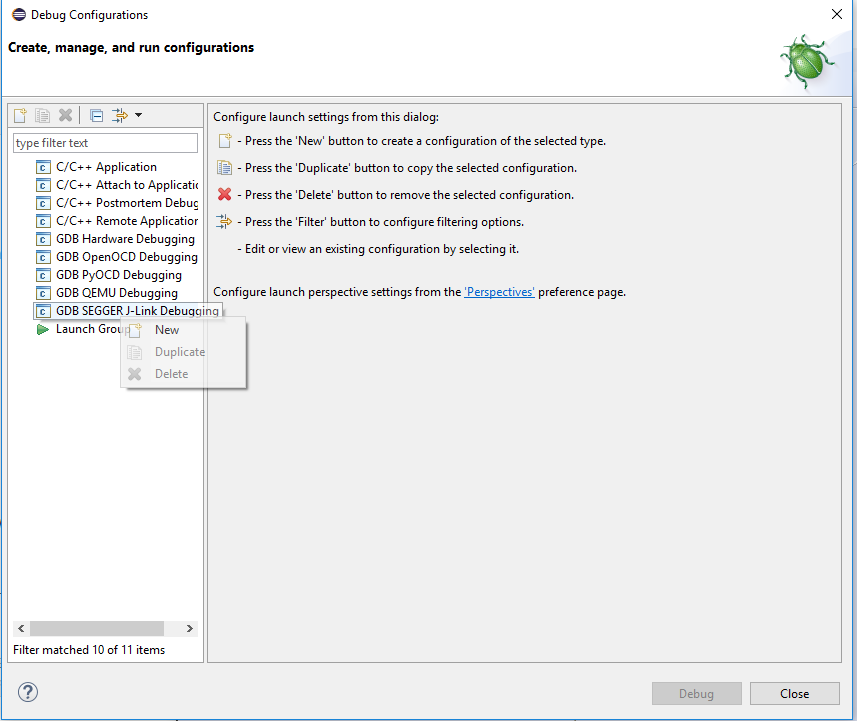
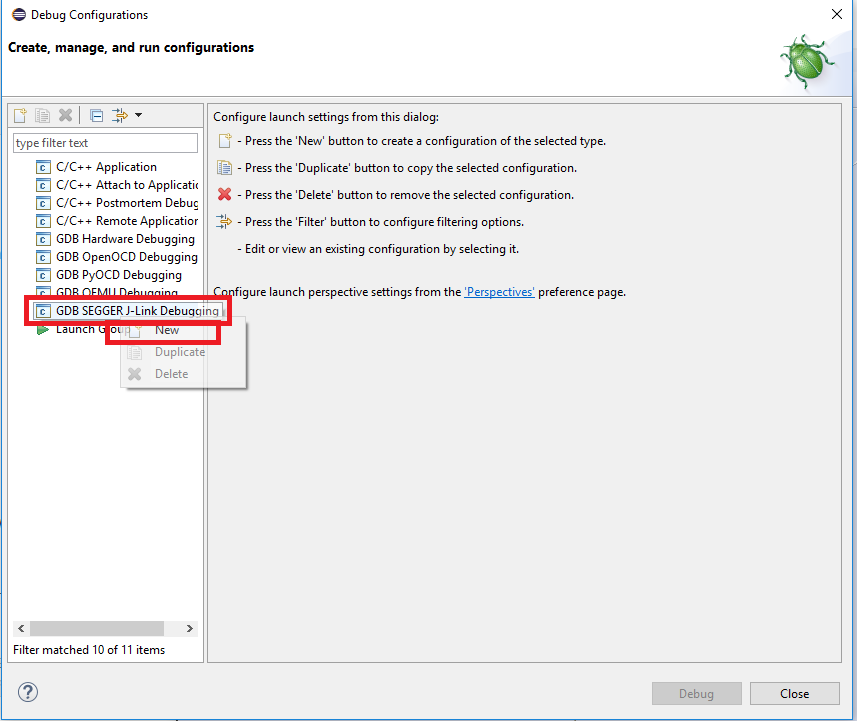
added all pictures

Changed region(s): [[0.0303, 0.3967, 0.273, 0.4882]]

diff --git a/0_set_up_eclipse.md b/0_set_up_eclipse.md
@@ -21,15 +21,17 @@ https://github.com/mcreng/SmartCarSWTutorial18/blob/master/1_basic_assignment.md
 - GNU ARM eclipse Plugins
 
   - [Help]->[Install New Software...]
+    ![2](C:\Users\dipsy\Desktop\ROBO\SmartCarSWTutorial18\img\eclipse\2.PNG)
   - Type http://gnuarmeclipse.sourceforge.net/updates in the textbox next to [Work with] label
     - Press Enter
     - Check the item [GNU ARM C/C++] in the CheckedListBox below
+      ![2.1](C:\Users\dipsy\Desktop\ROBO\SmartCarSWTutorial18\img\eclipse\2.1.PNG)
     - Press [Next]->[Next]->Accept license agreement & [finish]
 - EGit
   - [Help]->[Install New Software...]
   - Type http://download.eclipse.org/egit/updates in the textbox next to [Workwith] label
     - Press Enter
-    - Check the items [Eclipse Git Team Provider] & [JGit] in the CheckedListBox below
+    - Check the items [Git integration for Eclipse] & [Java implementation of Git] in the CheckedListBox below
     - Press [Next]->[Next]->Accept license agreement & [finish]
 
 ### 3. Library Setting
@@ -37,39 +39,48 @@ https://github.com/mcreng/SmartCarSWTutorial18/blob/master/1_basic_assignment.md
 #### 3.1 Download the Library by Git Pull
 
 - [Window]->[Open Perspective]->[Other...]->Select [Git]->[OK]
+  ![3.1.1](C:\Users\dipsy\Desktop\ROBO\SmartCarSWTutorial18\img\eclipse\3.1.1.PNG)
 - Copy https://github.com/hkust-smartcar/libsccc.git (Library)
   - Click [Git Repositories] tab
   - { Ctrl + V } / RightClick & [Paste Repository Path or URI]
   - [Next] -> [Next] -> [Finish]
+    ![3.1.4](C:\Users\dipsy\Desktop\ROBO\SmartCarSWTutorial18\img\eclipse\3.1.4.PNG)
 - Right Click [libsccc] -> [Pull]
 
 #### 3.2 Import the Library to Eclipse
 
 - Goto [C/C++ perspective] on the top-right corner
-- RightClick blank space on [Project Explorer] tab
+  ![3.2.1](C:\Users\dipsy\Desktop\ROBO\SmartCarSWTutorial18\img\eclipse\3.2.1.PNG)
+- RightClick blank space on [Project Explorer] tab![3.2.2](C:\Users\dipsy\Desktop\ROBO\SmartCarSWTutorial18\img\eclipse\3.2.2.PNG)
 - [C/C++ : Existing Code as Makefile Project] -> [Next]
+  ![3.2.3](C:\Users\dipsy\Desktop\ROBO\SmartCarSWTutorial18\img\eclipse\3.2.3.PNG)
 - Select Cross GCC
 - Name the new project as `libsccc`
 - Set the existing code location
 - [Finish]
+  ![3.2.4](C:\Users\dipsy\Desktop\ROBO\SmartCarSWTutorial18\img\eclipse\3.2.4.PNG)
 
 #### 3.3 Discovery Option Setting
 
 - [Window] -> [Preferences] -> [C/C++ : Property Pages Settings]
+  ![3.3.2](C:\Users\dipsy\Desktop\ROBO\SmartCarSWTutorial18\img\eclipse\3.3.1.PNG)
 - Check [Display “Discovery Options” page]
 - [Apply]
 - [OK]
+  ![3.3.2](C:\Users\dipsy\Desktop\ROBO\SmartCarSWTutorial18\img\eclipse\3.3.2.PNG)
 
 #### 3.4 Properties Setting
 
 - RightClick [libsccc] on [Project Explorer] tab -> [Properties]
 - Goto [C\C++ Build]
   - Uncheck [Generate Makefiles automatically]
+    ![3.4.0](C:\Users\dipsy\Desktop\ROBO\SmartCarSWTutorial18\img\eclipse\3.4.0.PNG)
 
   - Goto [Behavior] tab
     - Uncheck [Stop on first build error]
     - Check [Enable parallel build] (Optional)
   - [Apply]
+    ![3.4.1](C:\Users\dipsy\Desktop\ROBO\SmartCarSWTutorial18\img\eclipse\3.4.1.PNG)
 
 
 - Goto [C/C++ Build : Discovery Options]
@@ -79,6 +90,7 @@ https://github.com/mcreng/SmartCarSWTutorial18/blob/master/1_basic_assignment.md
   - Compiler invocation command : `arm-none-eabi-g++`
   - Append ` –std=gnu++11` to Compiler invocation argument
   - If you can's see the options, make the window full screen
+    ![3.4.2](C:\Users\dipsy\Desktop\ROBO\SmartCarSWTutorial18\img\eclipse\3.4.2.PNG)
 
 
 - Goto [C/C++ Build : Environment]
@@ -87,8 +99,9 @@ https://github.com/mcreng/SmartCarSWTutorial18/blob/master/1_basic_assignment.md
   - [Add...] -> Name: `SCCC_CONFIG` -> Value: `2017_INNO`
   - Append `{ Path of GNU Tools for ARM folder }\bin` to `[PATH]` Variable
   - Append `{ Path of GNU Make folder }\bin` to `[PATH]` Variable
-- [Apply]
+  - [Apply]![img](file:///C:/Users/dipsy/Desktop/ROBO/SmartCarSWTutorial18/img/eclipse/3.4.3.PNG?lastModify=1512410959)
 - **Build the library**
+  ![3.4.5](C:\Users\dipsy\Desktop\ROBO\SmartCarSWTutorial18\img\eclipse\3.4.5.PNG)
 
 
 ### 4. Project Setting
@@ -98,12 +111,15 @@ whenever you want to create a new project for programming smart car, you can sta
 #### 4.1 Create New Project
 
 - Right-click on [Project Explorer] -> [New] -> [C++ Project]
+  ![4.1.1](C:\Users\dipsy\Desktop\ROBO\SmartCarSWTutorial18\img\eclipse\4.1.1.PNG)
   - Choose project name, don't include white space or you will GG
   - Project Type: [Executable : Empty Project], Toolchains: [Cross GCC]
+    ![4.1.2](C:\Users\dipsy\Desktop\ROBO\SmartCarSWTutorial18\img\eclipse\4.1.2.PNG)
   - -> [Next] -> [Next]
   - Cross compiler prefix: `arm-none-eabi-`
   - Cross compiler path: `{ Path to GNU Tools for ARM }`
 - [Finish]
+  ![4.1.3](C:\Users\dipsy\Desktop\ROBO\SmartCarSWTutorial18\img\eclipse\4.1.3.PNG)
 
 #### 4.2 Property Setting
 
@@ -111,11 +127,13 @@ Goto [C/C++ Build]
 
 - Goto [Builder Settings] tab
   - Remove `Debug` from Build directory
+    ![4.2.1](C:\Users\dipsy\Desktop\ROBO\SmartCarSWTutorial18\img\eclipse\4.2.1.PNG)
 - repeat 3.4
 - Goto [C/C++ Build : Environment]
   - [Add...] -> Name: `LIBSCCC_BIN_PATH` -> Value: `{ Path of library folder }\lib`
   - [Add...] -> Name: `LIBSCCC_INC_PATH` -> Value: `{ Path of library folder }\inc`
 - [Apply]
+  ![4.2.2](C:\Users\dipsy\Desktop\ROBO\SmartCarSWTutorial18\img\eclipse\4.2.2.PNG)
 
 **Remember that variable [SCCC_CONFIG] of both library and your own project must be the same.**
 
@@ -125,6 +143,7 @@ Goto [C/C++ Build]
   - Goto [Includes] tab
     - Select Languages: [GNU C++]
     - [Add....] -> [Workspace...] -> Select [libsccc : inc]-> [OK] -> [OK]
+      ![4.3](C:\Users\dipsy\Desktop\ROBO\SmartCarSWTutorial18\img\eclipse\4.3.PNG)
 
 
 #### 4.4 Download linker's script, makefile and main.cpp
@@ -132,6 +151,7 @@ Goto [C/C++ Build]
 - https://drive.google.com/drive/u/0/folders/0B-KAbvJ3lRuIREhJQzllSy1iZjQ
 
 - Download, extract and put to your root folder
+  ![4.4](C:\Users\dipsy\Desktop\ROBO\SmartCarSWTutorial18\img\eclipse\4.4.PNG)
 
 - Don't change this part unless you know what you are doing
 
@@ -158,8 +178,10 @@ Goto [C/C++ Build]
 
 - Press the triangle next to a “BUG”
 - [Debug Configurations...]
+  ![5.1_ex](C:\Users\dipsy\Desktop\ROBO\SmartCarSWTutorial18\img\eclipse\5.1_ex.PNG)
 - RightClick [GDB SEGGERJ-Link Debugging
 - [New]
+  ![5.1](C:\Users\dipsy\Desktop\ROBO\SmartCarSWTutorial18\img\eclipse\5.1.PNG)
 
 #### 5.2 Select Binary
 
